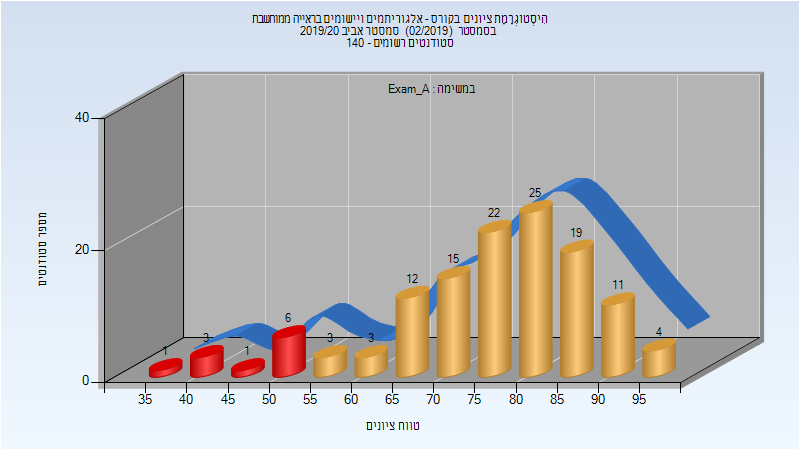
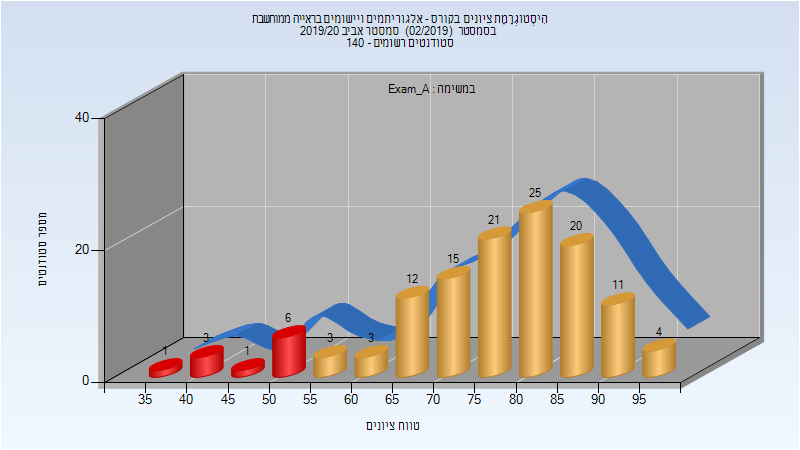
Deploy michael-maltsev/technion-histograms to github.com/michael-maltsev/technion-histograms.git:gh-pages

diff --git a/046746/index.html b/046746/index.html
@@ -142,8 +142,8 @@
 <td>91</td>
 <td>37</td>
 <td>97.5</td>
-<td>76.556</td>
-<td>79</td>
+<td>76.612</td>
+<td>79.5</td>
 </tr>
 </tbody>
 </table>

diff --git a/046746/README.md b/046746/README.md
@@ -40,5 +40,5 @@
 
 | סטודנטים | עברו/נכשלו | אחוז עוברים | ציון מינימלי | ציון מקסימלי | ממוצע | חציון |
 | ---- | ---- | ---- | ---- | ---- | ---- | ---- |
-| 125 | 114/11 | 91 | 37 | 97.5 | 76.556 | 79 |
+| 125 | 114/11 | 91 | 37 | 97.5 | 76.612 | 79.5 |
 
